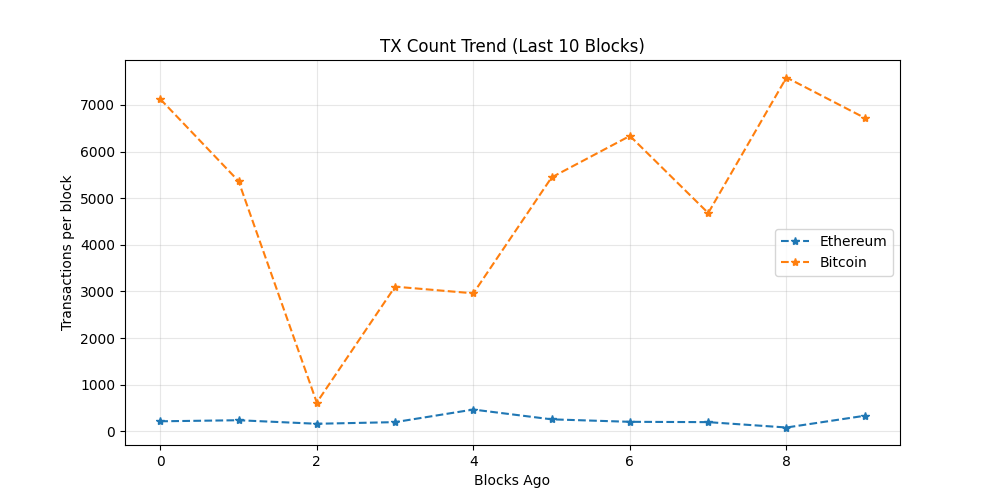
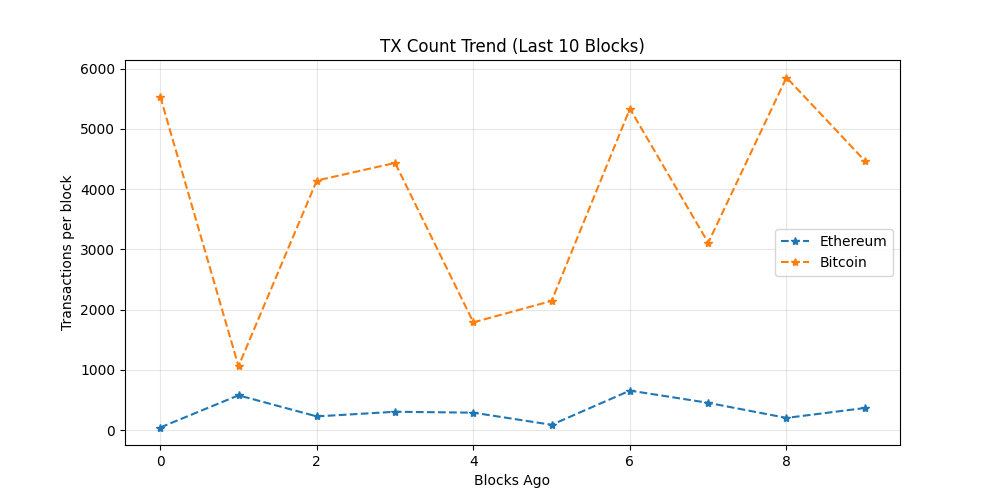
chore: update on-chain dashboard

diff --git a/README.md b/README.md
@@ -19,7 +19,7 @@ The README itself acts as the dashboard and is regenerated automatically on a 6 
 demonstrating a production-style, infrastructure-focused observability workflow rather
 than a traditional UI-driven approach.
 
-_Last updated: 2026-04-05 03:36 UTC_
+_Last updated: 2026-04-05 07:31 UTC_
 
 ## API Usage (GetBlock.io)
 - Calls used: **24**
@@ -27,8 +27,8 @@ _Last updated: 2026-04-05 03:36 UTC_
 ## Network Metrics
 | Chain | Block Height | TX Count | TPS (10 blk avg) | Block Util | Avg Fee |
 |------|-------------|----------|------------------|------------|---------|
-| Ethereum | 24810808 | 334 | 27.83 | 31.86% | 0.1 Gwei |
-| Bitcoin | 943714 | 6722 | 27.21 | 99.79% | N/A |
+| Ethereum | 24811979 | 369 | 30.75 | 45.4% | 0.1 Gwei |
+| Bitcoin | 943734 | 4471 | 7.2 | 99.79% | N/A |
 
 ## Visuals
 ### Transactions Trend
@@ -43,7 +43,7 @@ _Last updated: 2026-04-05 03:36 UTC_
 ## Whale Alerts (latest block)
 - Transaction hashes are truncated for readability.
 - Full hashes are available in `dashboards/metrics.json`
-- Bitcoin | 4071.64 BTC | `87642f174c24…`
+- Bitcoin | 156.73 BTC | `50e577469a7e…`
 
 ## Run locally
 
